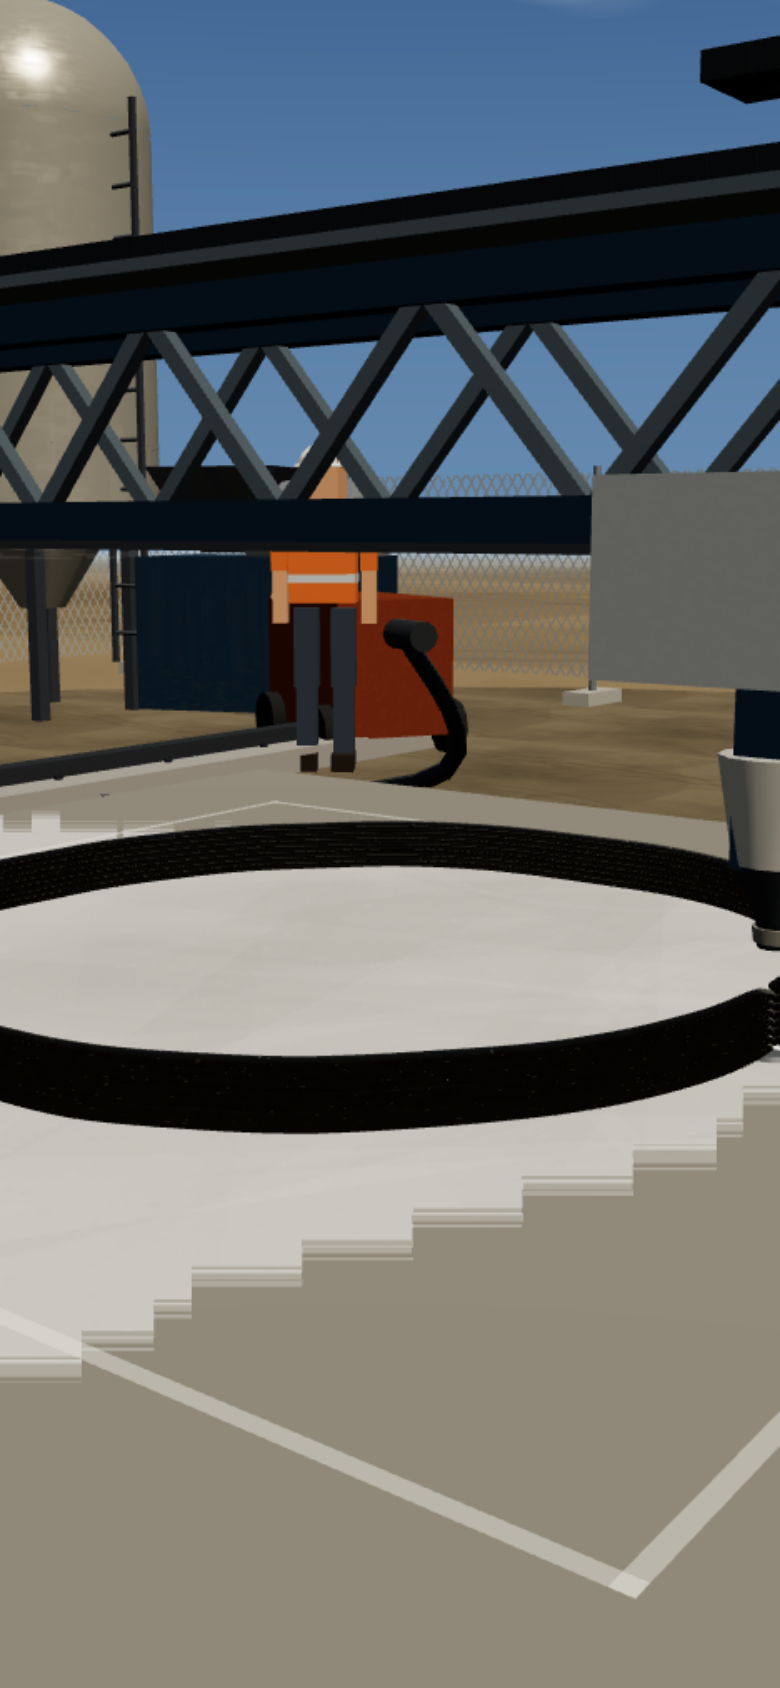
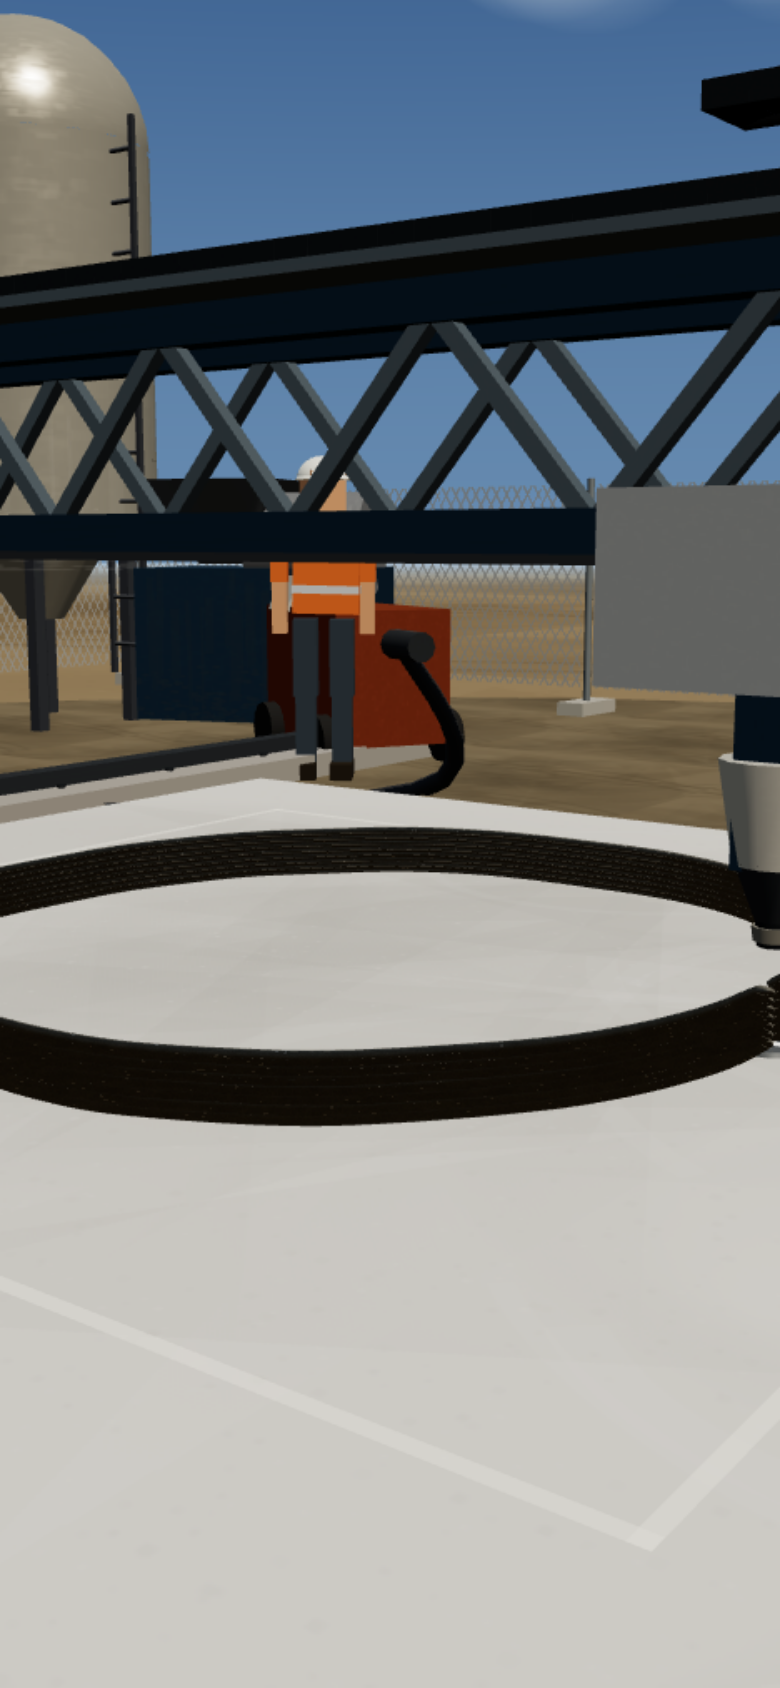
README追加・墨出し線端点の向き修正・検証既定値調整
Claude-Session: https://claude.ai/code/session_01YM9BXMVKQkXAStQHo3jTsD

diff --git a/README.md b/README.md
@@ -1,0 +1,44 @@
+# いっぴつ コンクリート — One-Stroke Concrete Printer
+
+子どもの一筆が、実寸大のコンクリート建築へ立ち上がるモバイルWebゲーム。
+
+基礎スラブに指で一筆描くと、ガントリー式の建設用3Dコンクリートプリンターが
+その軌跡を追い、湿ったセメント系材料を押し出して同じ輪郭を何層も積み重ねる。
+右へ膨らませた線は右へ膨らんだ壁に、左へ凹ませた線は左へ凹んだ建物になる。
+入力はテンプレートに置換されない。
+
+- 対象: 4歳児（文章を読まなくても遊べる）
+- 端末: iPhone / iPad（モバイルSafari）、縦・横両対応
+- 技術: TypeScript + Three.js (WebGL 2)、バックエンドなし
+
+## 遊び方
+
+1. スラブの枠内に指で一筆描く（閉じても開いてもよい。開いた線は湾曲壁やベンチになる）
+2. プリンターが開始点へ移動し、第1層をほぼ実時間で印刷（接写）
+3. 2〜3層の追従ののち、タイムラプスで壁が立ち上がる（角では減速して見せる）
+4. 作業員の安全確認。閉曲線なら屋根パネルをクレーンで設置
+5. 上空からの比較（左上のカードに自分の一筆）→ もう一回
+
+## 開発
+
+```bash
+npm install
+npm run dev        # 開発サーバー
+npm run build      # 型検査 + production build
+npm run preview    # dist/ を配信
+```
+
+## 検証
+
+```bash
+npm run build
+node test/verify.mjs          # 全デバイス×6形状の実プレイ検証
+node test/verify.mjs --quick  # 短縮版
+```
+
+iPhone/iPad の縦横 4 構成で入力中・第1層・積層中・完成のスクリーンショットを
+`verification/shots/` に保存し、統計を `verification/report.json` に書き出す。
+
+## ドキュメント
+
+- 基準寸法と一次資料: [docs/TECH_NOTES.md](docs/TECH_NOTES.md)
